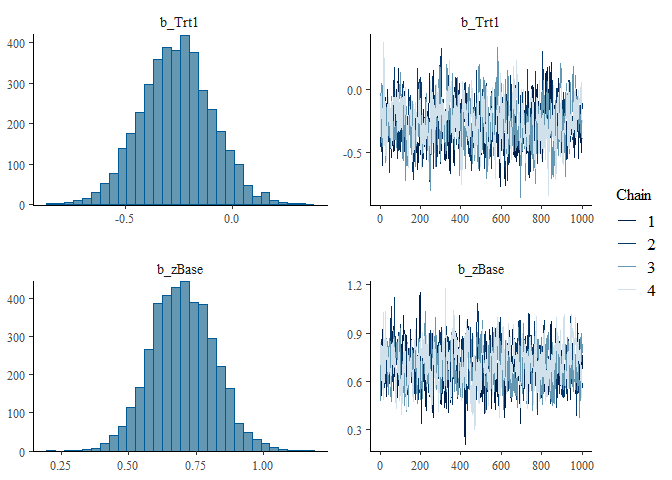
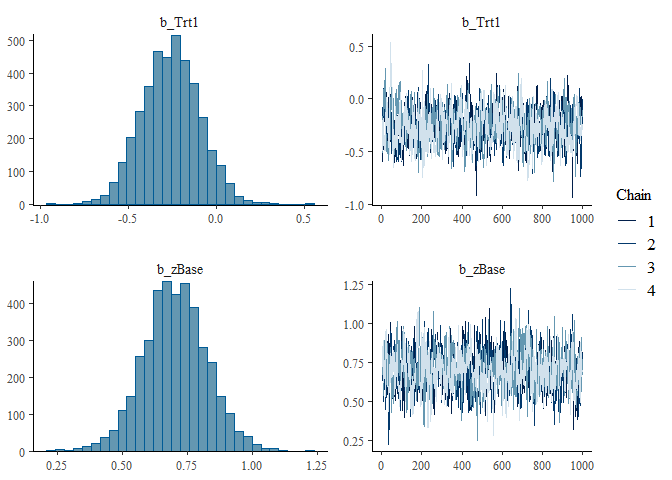
Updated conflicts function

diff --git a/README.md b/README.md
@@ -34,6 +34,16 @@ Here, we load `stanflow` and decide to use `cmdstanr` as the backend for
 
 ``` r
 library(stanflow)
+#> ── Attaching Stan processing packages ─────────────────── stanflow 0.0.0.9000 ──
+#> ✔ bayesplot 1.15.0         ✔ projpred  2.10.0    
+#> ✔ loo       2.8.0.9000     ✔ shinystan 2.7.0     
+#> ✔ posterior 1.6.1
+#> ── Available Stan interfaces ────────────────────────────── setup_interface() ──
+#> • brms     2.22.0          • rstan    2.36.0.9000
+#> • cmdstanr 0.9.0.9000      ✖ rstanarm
+#> ── Conflicts ─────────────────────────────────────────── stanflow_conflicts() ──
+#> ✖ posterior::rhat() masks bayesplot::rhat()
+#> ℹ Use the conflicted package (<http://conflicted.r-lib.org/>) to force all conflicts to become errors
 setup_interface(
   interface = "brms",
   dev = FALSE,
@@ -49,9 +59,23 @@ setup_interface(
 #> The C++ toolchain required for CmdStan is setup properly!
 #> ℹ Found CmdStan v2.37.0 at 'C:/Users/visru/.cmdstan/cmdstan-2.37.0'
 #> ✔ Setup complete. brms, cmdstanr are attached; you do not need to run `library()`.
+set.seed(0)
+flow_check()
+#> ── Attaching Stan processing packages ─────────────────── stanflow 0.0.0.9000 ──
+#> ✔ bayesplot 1.15.0         ✔ projpred  2.10.0    
+#> ✔ loo       2.8.0.9000     ✔ shinystan 2.7.0     
+#> ✔ posterior 1.6.1          
+#> ── Available Stan interfaces ────────────────────────────── setup_interface() ──
+#> ✔ brms     2.22.0          • rstan    2.36.0.9000
+#> ✔ cmdstanr 0.9.0.9000      ✖ rstanarm            
+#> ── Conflicts ─────────────────────────────────────────── stanflow_conflicts() ──
+#> ✖ brms::ar()      masks stats::ar()
+#> ✖ brms::do_call() masks projpred::do_call()
+#> ✖ brms::rhat()    masks posterior::rhat(), bayesplot::rhat()
+#> ℹ Use the conflicted package (<http://conflicted.r-lib.org/>) to force all conflicts to become errors
 ```
 
-With these two commands (with the `setup_interface()` call being
+With the first two commands (note that the `setup_interface()` call is
 unnecessarily verbose), users have access to everything they need to fit
 and interrogate Bayesian models. Specifically, those two commands will
 load the core stanflow packages: `bayesplot`, `loo`, `posterior`,
@@ -61,19 +85,18 @@ These package (inlcuding `brms` and `cmdstanr`) are all “`library()`d”
 as well, so we can proceed with our analysis immediately.
 
 ``` r
-set.seed(1234)
 cmdstanr_example()
 #>    variable   mean median   sd  mad     q5    q95 rhat ess_bulk ess_tail
-#>  lp__       -66.02 -65.68 1.50 1.27 -68.96 -64.31 1.00     1723     2491
-#>  alpha        0.38   0.38 0.22 0.22   0.02   0.74 1.00     4248     2403
-#>  beta[1]     -0.66  -0.65 0.25 0.25  -1.07  -0.26 1.00     4006     2689
-#>  beta[2]     -0.27  -0.27 0.23 0.23  -0.66   0.11 1.00     3799     2997
-#>  beta[3]      0.68   0.67 0.27 0.27   0.24   1.14 1.00     4243     2892
-#>  log_lik[1]  -0.52  -0.51 0.10 0.10  -0.69  -0.36 1.00     4343     2757
-#>  log_lik[2]  -0.41  -0.39 0.15 0.15  -0.68  -0.19 1.00     4596     2817
-#>  log_lik[3]  -0.50  -0.46 0.22 0.21  -0.91  -0.20 1.00     4308     3236
-#>  log_lik[4]  -0.45  -0.44 0.15 0.15  -0.73  -0.23 1.00     3917     2693
-#>  log_lik[5]  -1.19  -1.16 0.28 0.28  -1.68  -0.76 1.00     4649     2849
+#>  lp__       -65.94 -65.62 1.39 1.19 -68.67 -64.29 1.00     1996     2876
+#>  alpha        0.38   0.37 0.21 0.22   0.03   0.74 1.00     4087     3110
+#>  beta[1]     -0.67  -0.67 0.25 0.25  -1.09  -0.27 1.00     4516     2758
+#>  beta[2]     -0.27  -0.26 0.22 0.22  -0.64   0.09 1.00     3520     3012
+#>  beta[3]      0.67   0.66 0.27 0.27   0.24   1.12 1.00     4444     3098
+#>  log_lik[1]  -0.51  -0.51 0.10 0.10  -0.68  -0.37 1.00     3705     3254
+#>  log_lik[2]  -0.41  -0.39 0.15 0.14  -0.67  -0.20 1.00     4327     3192
+#>  log_lik[3]  -0.50  -0.46 0.22 0.20  -0.91  -0.20 1.00     3433     2935
+#>  log_lik[4]  -0.45  -0.43 0.15 0.15  -0.73  -0.24 1.00     3605     2931
+#>  log_lik[5]  -1.18  -1.16 0.28 0.28  -1.67  -0.75 1.00     4895     3413
 #> 
 #>  # showing 10 of 105 rows (change via 'max_rows' argument or 'cmdstanr_max_rows' option)
 
@@ -87,14 +110,14 @@ fit1 <- brm(
 #> Start sampling
 #> Running MCMC with 4 chains, at most 20 in parallel...
 #> 
-#> Chain 1 finished in 18.5 seconds.
-#> Chain 4 finished in 19.0 seconds.
-#> Chain 3 finished in 19.1 seconds.
-#> Chain 2 finished in 19.2 seconds.
+#> Chain 1 finished in 8.1 seconds.
+#> Chain 2 finished in 8.1 seconds.
+#> Chain 3 finished in 8.1 seconds.
+#> Chain 4 finished in 8.5 seconds.
 #> 
 #> All 4 chains finished successfully.
-#> Mean chain execution time: 18.9 seconds.
-#> Total execution time: 19.3 seconds.
+#> Mean chain execution time: 8.2 seconds.
+#> Total execution time: 8.6 seconds.
 summary(fit1)
 #>  Family: poisson 
 #>   Links: mu = log 
@@ -106,15 +129,15 @@ summary(fit1)
 #> Multilevel Hyperparameters:
 #> ~patient (Number of levels: 59) 
 #>               Estimate Est.Error l-95% CI u-95% CI Rhat Bulk_ESS Tail_ESS
-#> sd(Intercept)     0.59      0.07     0.47     0.75 1.00      807     1782
+#> sd(Intercept)     0.58      0.07     0.46     0.74 1.01      751     1459
 #> 
 #> Regression Coefficients:
 #>            Estimate Est.Error l-95% CI u-95% CI Rhat Bulk_ESS Tail_ESS
-#> Intercept      1.77      0.12     1.52     2.00 1.01      653     1224
-#> zAge           0.09      0.09    -0.08     0.27 1.01      746     1180
-#> zBase          0.70      0.12     0.47     0.94 1.00      828     1465
-#> Trt1          -0.26      0.17    -0.59     0.06 1.00      674     1165
-#> zBase:Trt1     0.06      0.16    -0.26     0.38 1.00      935     1570
+#> Intercept      1.76      0.12     1.53     1.99 1.01      728     1469
+#> zAge           0.09      0.08    -0.07     0.26 1.00      848     1597
+#> zBase          0.70      0.12     0.46     0.94 1.00      816     1347
+#> Trt1          -0.26      0.17    -0.57     0.07 1.00      714     1196
+#> zBase:Trt1     0.05      0.17    -0.28     0.38 1.00      904     1528
 #> 
 #> Draws were sampled using sample(hmc). For each parameter, Bulk_ESS
 #> and Tail_ESS are effective sample size measures, and Rhat is the potential
@@ -138,14 +161,14 @@ fit2 <- brm(
 #> Start sampling
 #> Running MCMC with 4 chains, at most 20 in parallel...
 #> 
-#> Chain 1 finished in 18.3 seconds.
-#> Chain 4 finished in 18.3 seconds.
-#> Chain 3 finished in 19.0 seconds.
-#> Chain 2 finished in 20.7 seconds.
+#> Chain 1 finished in 10.9 seconds.
+#> Chain 4 finished in 10.9 seconds.
+#> Chain 2 finished in 11.0 seconds.
+#> Chain 3 finished in 11.5 seconds.
 #> 
 #> All 4 chains finished successfully.
-#> Mean chain execution time: 19.1 seconds.
-#> Total execution time: 20.8 seconds.
+#> Mean chain execution time: 11.1 seconds.
+#> Total execution time: 11.7 seconds.
 summary(fit2)
 #>  Family: poisson 
 #>   Links: mu = log 
@@ -157,29 +180,29 @@ summary(fit2)
 #> Multilevel Hyperparameters:
 #> ~obs (Number of levels: 236) 
 #>               Estimate Est.Error l-95% CI u-95% CI Rhat Bulk_ESS Tail_ESS
-#> sd(Intercept)     0.37      0.04     0.29     0.46 1.01     1155     1688
+#> sd(Intercept)     0.37      0.04     0.29     0.46 1.00     1349     1967
 #> 
 #> ~patient (Number of levels: 59) 
 #>               Estimate Est.Error l-95% CI u-95% CI Rhat Bulk_ESS Tail_ESS
-#> sd(Intercept)     0.54      0.07     0.42     0.71 1.00     1180     2138
+#> sd(Intercept)     0.54      0.07     0.41     0.70 1.00     1125     1797
 #> 
 #> Regression Coefficients:
 #>            Estimate Est.Error l-95% CI u-95% CI Rhat Bulk_ESS Tail_ESS
-#> Intercept      1.72      0.12     1.49     1.97 1.00      961     1666
-#> zAge           0.09      0.09    -0.08     0.26 1.00     1137     1859
-#> zBase          0.71      0.12     0.46     0.94 1.00     1011     1473
-#> Trt1          -0.26      0.17    -0.59     0.06 1.01      951     1400
-#> zBase:Trt1     0.05      0.17    -0.27     0.39 1.00     1127     1621
+#> Intercept      1.72      0.12     1.49     1.95 1.00     1088     2092
+#> zAge           0.09      0.09    -0.09     0.26 1.00     1055     1569
+#> zBase          0.70      0.12     0.47     0.94 1.00      971     1557
+#> Trt1          -0.26      0.16    -0.59     0.06 1.00      922     1751
+#> zBase:Trt1     0.06      0.16    -0.26     0.37 1.00     1045     1803
 #> 
 #> Draws were sampled using sample(hmc). For each parameter, Bulk_ESS
 #> and Tail_ESS are effective sample size measures, and Rhat is the potential
 #> scale reduction factor on split chains (at convergence, Rhat = 1).
 
 loo(fit1, fit2)
-#> Warning: Found 7 observations with a pareto_k > 0.7 in model 'fit1'. We
+#> Warning: Found 6 observations with a pareto_k > 0.7 in model 'fit1'. We
 #> recommend to set 'moment_match = TRUE' in order to perform moment matching for
 #> problematic observations.
-#> Warning: Found 57 observations with a pareto_k > 0.7 in model 'fit2'. We
+#> Warning: Found 58 observations with a pareto_k > 0.7 in model 'fit2'. We
 #> recommend to set 'moment_match = TRUE' in order to perform moment matching for
 #> problematic observations.
 #> Output of model 'fit1':
@@ -187,17 +210,17 @@ loo(fit1, fit2)
 #> Computed from 4000 by 236 log-likelihood matrix.
 #> 
 #>          Estimate   SE
-#> elpd_loo   -672.0 37.4
-#> p_loo        94.6 15.0
-#> looic      1344.1 74.7
+#> elpd_loo   -671.9 36.8
+#> p_loo        94.4 14.5
+#> looic      1343.8 73.6
 #> ------
 #> MCSE of elpd_loo is NA.
-#> MCSE and ESS estimates assume MCMC draws (r_eff in [0.4, 2.1]).
+#> MCSE and ESS estimates assume MCMC draws (r_eff in [0.4, 2.2]).
 #> 
 #> Pareto k diagnostic values:
 #>                          Count Pct.    Min. ESS
-#> (-Inf, 0.7]   (good)     229   97.0%   135     
-#>    (0.7, 1]   (bad)        6    2.5%   <NA>    
+#> (-Inf, 0.7]   (good)     230   97.5%   142     
+#>    (0.7, 1]   (bad)        5    2.1%   <NA>    
 #>    (1, Inf)   (very bad)   1    0.4%   <NA>    
 #> See help('pareto-k-diagnostic') for details.
 #> 
@@ -206,24 +229,24 @@ loo(fit1, fit2)
 #> Computed from 4000 by 236 log-likelihood matrix.
 #> 
 #>          Estimate   SE
-#> elpd_loo   -595.1 14.0
-#> p_loo       107.9  7.2
-#> looic      1190.2 28.0
+#> elpd_loo   -594.6 13.9
+#> p_loo       107.2  7.1
+#> looic      1189.1 27.7
 #> ------
 #> MCSE of elpd_loo is NA.
-#> MCSE and ESS estimates assume MCMC draws (r_eff in [0.4, 1.6]).
+#> MCSE and ESS estimates assume MCMC draws (r_eff in [0.4, 1.7]).
 #> 
 #> Pareto k diagnostic values:
 #>                          Count Pct.    Min. ESS
-#> (-Inf, 0.7]   (good)     179   75.8%   151     
-#>    (0.7, 1]   (bad)       52   22.0%   <NA>    
-#>    (1, Inf)   (very bad)   5    2.1%   <NA>    
+#> (-Inf, 0.7]   (good)     178   75.4%   248     
+#>    (0.7, 1]   (bad)       55   23.3%   <NA>    
+#>    (1, Inf)   (very bad)   3    1.3%   <NA>    
 #> See help('pareto-k-diagnostic') for details.
 #> 
 #> Model comparisons:
 #>      elpd_diff se_diff
 #> fit2   0.0       0.0  
-#> fit1 -77.0      28.1
+#> fit1 -77.3      27.4
 ```
 
 Code snippets above are taken from the [`brms`
